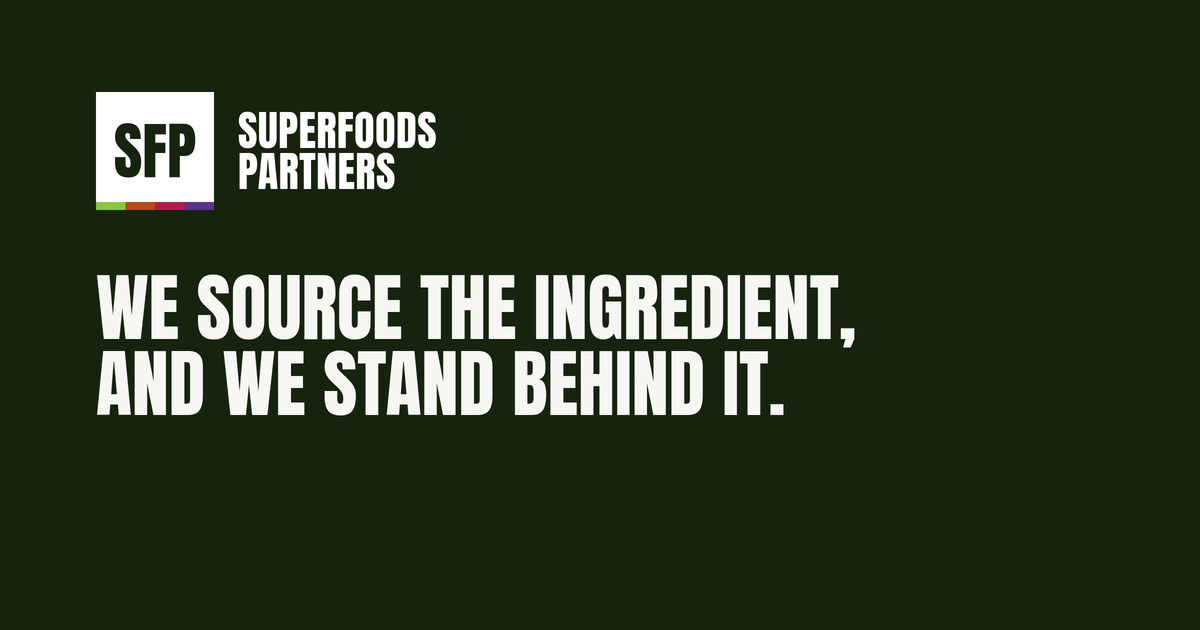
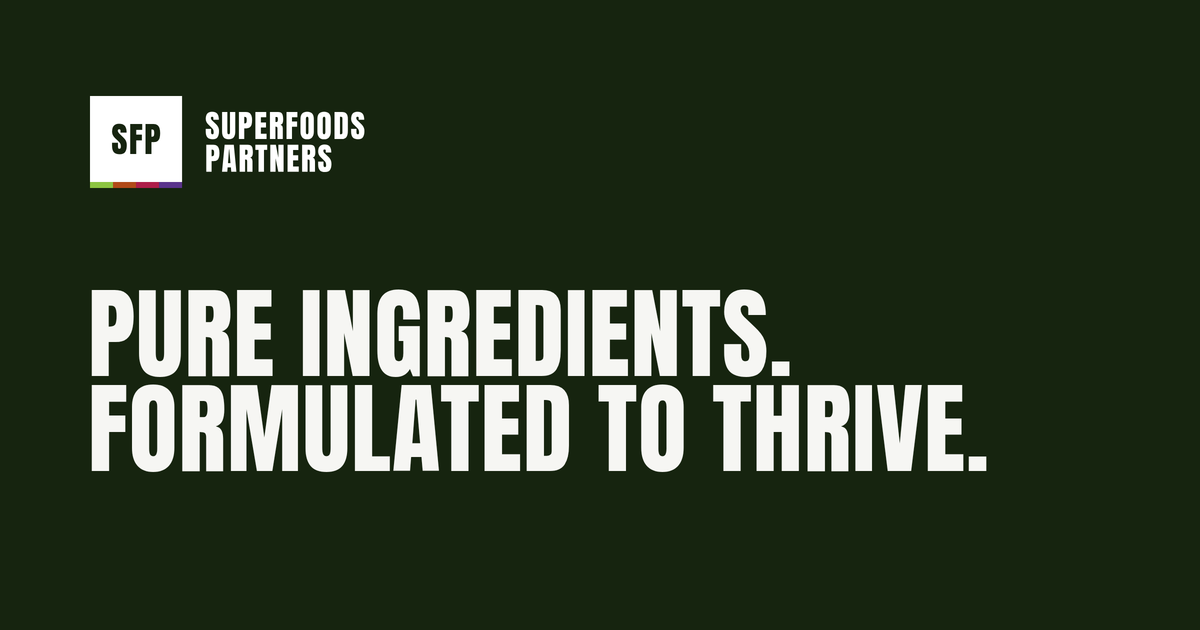
Slogan consistent site-wide + team auto-scroll + equal cert tiles (#47)
* Brand slogan consistent site-wide: footer, default title, OG image

The new slogan "Pure ingredients. Formulated to thrive." (already the hero
H1) now also replaces the old positioning line everywhere it stood in as the
brand slogan:
- footer.tagline (the footer line) — was "Sourced at scale. Trusted at origin."
- meta.titleDefault (browser tab / default <title> / OG site title) — now
  "Superfoods Partners — Pure ingredients. Formulated to thrive."
- Regenerated the social share images (opengraph-image.png + twitter-image.png,
  1200x630) — were "We source the ingredient, and we stand behind it."
All locales.

Left untouched: "trusted at origin" where it appears as body copy / a photo
caption (meaningful content about knowing the growers, not the slogan).

Claude-Session: https://claude.ai/code/session_012sUTwtPdH11qSoivRLDWgW

* Team avatars auto-scroll (6 shown); equal-size certification tiles

Mobile feedback on the "where we operate" section:
- Meet the team showed all ~14 avatars in one overflowing row. Now a pure-CSS
  marquee: about six show at once and the strip auto-scrolls through the whole
  team, with faded edges, pause-on-hover, and a static fallback under
  prefers-reduced-motion.
- Certification marks were content-width flex tiles (unequal). Now an
  equal-cell grid (2 cols mobile → 6 on desktop), so every mark sits in an
  identically sized card.

Claude-Session: https://claude.ai/code/session_012sUTwtPdH11qSoivRLDWgW

---------

Changed region(s): [[0.0617, 0.4222, 0.8325, 0.754], [0.0617, 0.1206, 0.37, 0.3317]]

diff --git a/src/components/ExpertsCluster.tsx b/src/components/ExpertsCluster.tsx
@@ -2,8 +2,10 @@ import Image from "next/image";
 import Link from "next/link";
 import type { TeamMember } from "@/data/trust";
 
-// Small, subtle "real people behind it" cue: a link + a row of overlapping
-// circular team avatars. Reuses the team portraits (face-cropped via CSS).
+// "Real people behind it" cue: a link + an auto-scrolling strip of circular
+// team avatars. About six show at once; the strip scrolls on its own so the
+// whole team cycles through without crowding the row. Pure CSS marquee —
+// pauses on hover and freezes under prefers-reduced-motion.
 export function ExpertsCluster({
   members,
   href = "/company",
@@ -19,18 +21,45 @@ export function ExpertsCluster({
   if (!withPhoto.length) return null;
   const ring = tone === "dark" ? "ring-forest" : "ring-oat";
   const text = tone === "dark" ? "text-amber" : "text-green";
+  // Duplicate the set so translateX(-50%) loops seamlessly.
+  const loop = [...withPhoto, ...withPhoto];
+  const fade = "linear-gradient(90deg, transparent, #000 7%, #000 93%, transparent)";
+
   return (
-    <Link href={href} className="group inline-flex flex-col gap-3">
-      <span className={`mono inline-flex items-center gap-1 text-[11px] uppercase tracking-wide ${text} underline-offset-4 group-hover:underline`}>
+    <div className="flex flex-col gap-3">
+      <Link
+        href={href}
+        className={`group mono inline-flex w-fit items-center gap-1 text-[11px] uppercase tracking-wide ${text} underline-offset-4 hover:underline`}
+      >
         {label} <span aria-hidden>→</span>
-      </span>
-      <span className="flex -space-x-2.5">
-        {withPhoto.map((m) => (
-          <span key={m.name} title={m.name} className={`relative h-10 w-10 overflow-hidden rounded-full bg-sand ring-2 ${ring}`}>
-            <Image src={m.photo!} alt={m.name} fill sizes="40px" className="object-cover" style={{ objectPosition: "50% 16%" }} />
-          </span>
-        ))}
-      </span>
-    </Link>
+      </Link>
+      <div
+        className="marquee relative w-full max-w-[320px] overflow-hidden"
+        style={{ maskImage: fade, WebkitMaskImage: fade }}
+      >
+        <div className="marquee-track flex w-max gap-2 py-1">
+          {loop.map((m, i) => {
+            const dup = i >= withPhoto.length;
+            return (
+              <span
+                key={`${m.name}-${i}`}
+                title={dup ? undefined : m.name}
+                aria-hidden={dup || undefined}
+                className={`relative h-10 w-10 shrink-0 overflow-hidden rounded-full bg-sand ring-2 ${ring}`}
+              >
+                <Image
+                  src={m.photo!}
+                  alt={dup ? "" : m.name}
+                  fill
+                  sizes="40px"
+                  className="object-cover"
+                  style={{ objectPosition: "50% 16%" }}
+                />
+              </span>
+            );
+          })}
+        </div>
+      </div>
+    </div>
   );
 }

diff --git a/src/components/Certifications.tsx b/src/components/Certifications.tsx
@@ -5,16 +5,20 @@ import type { Cert } from "@/data/trust";
 function LogoRow({ items, compact = false }: { items: Cert[]; compact?: boolean }) {
   const h = compact ? "h-16" : "h-24";
   const logoMax = compact ? "max-h-9" : "max-h-14";
-  const minW = compact ? "min-w-[160px]" : "min-w-[132px]";
+  // Equal-size tiles via a grid (not content-width flex), so every mark sits in
+  // an identically sized card regardless of logo shape.
+  const cols = compact
+    ? "grid-cols-2 max-w-md"
+    : "grid-cols-2 sm:grid-cols-3 lg:grid-cols-6 max-w-5xl";
   return (
-    <div className="mt-8 flex flex-wrap items-center justify-center gap-3 md:gap-4">
+    <div className={`mt-8 grid ${cols} mx-auto gap-3 md:gap-4`}>
       {items.map((c) => (
         <div
           key={c.name}
           title={c.name}
-          className={`flex ${h} ${minW} items-center justify-center rounded-xl border border-stone/12 bg-white px-6 shadow-[0_1px_2px_rgba(20,39,27,0.05)]`}
+          className={`flex ${h} items-center justify-center rounded-xl border border-stone/12 bg-white px-5 shadow-[0_1px_2px_rgba(20,39,27,0.05)]`}
         >
-          <Image src={c.logo!} alt={c.name} width={220} height={90} className={`${logoMax} w-auto object-contain`} />
+          <Image src={c.logo!} alt={c.name} width={220} height={90} className={`${logoMax} w-auto max-w-full object-contain`} />
         </div>
       ))}
     </div>

diff --git a/src/app/globals.css b/src/app/globals.css
@@ -133,3 +133,10 @@ p {
 @keyframes lm-p{0%{box-shadow:0 0 0 0 rgba(140,197,65,.45)}70%{box-shadow:0 0 0 5px rgba(140,197,65,0)}100%{box-shadow:0 0 0 0 rgba(140,197,65,0)}}
 @media(max-width:600px){.lm-stage{aspect-ratio:3/4}.lm-cards{padding:10px;gap:8px}.lm-card{min-width:180px}}
 @media(prefers-reduced-motion:reduce){.lm-pulse{animation:none}}
+
+/* Marquee — seamless auto-scroll for the team avatar strip. Pause on hover;
+   reduced-motion freezes it (global rule sets iteration-count:1). */
+.marquee-track { animation: marquee 32s linear infinite; }
+.marquee:hover .marquee-track { animation-play-state: paused; }
+@keyframes marquee { to { transform: translateX(-50%); } }
+@media (prefers-reduced-motion: reduce) { .marquee-track { animation: none; } }
